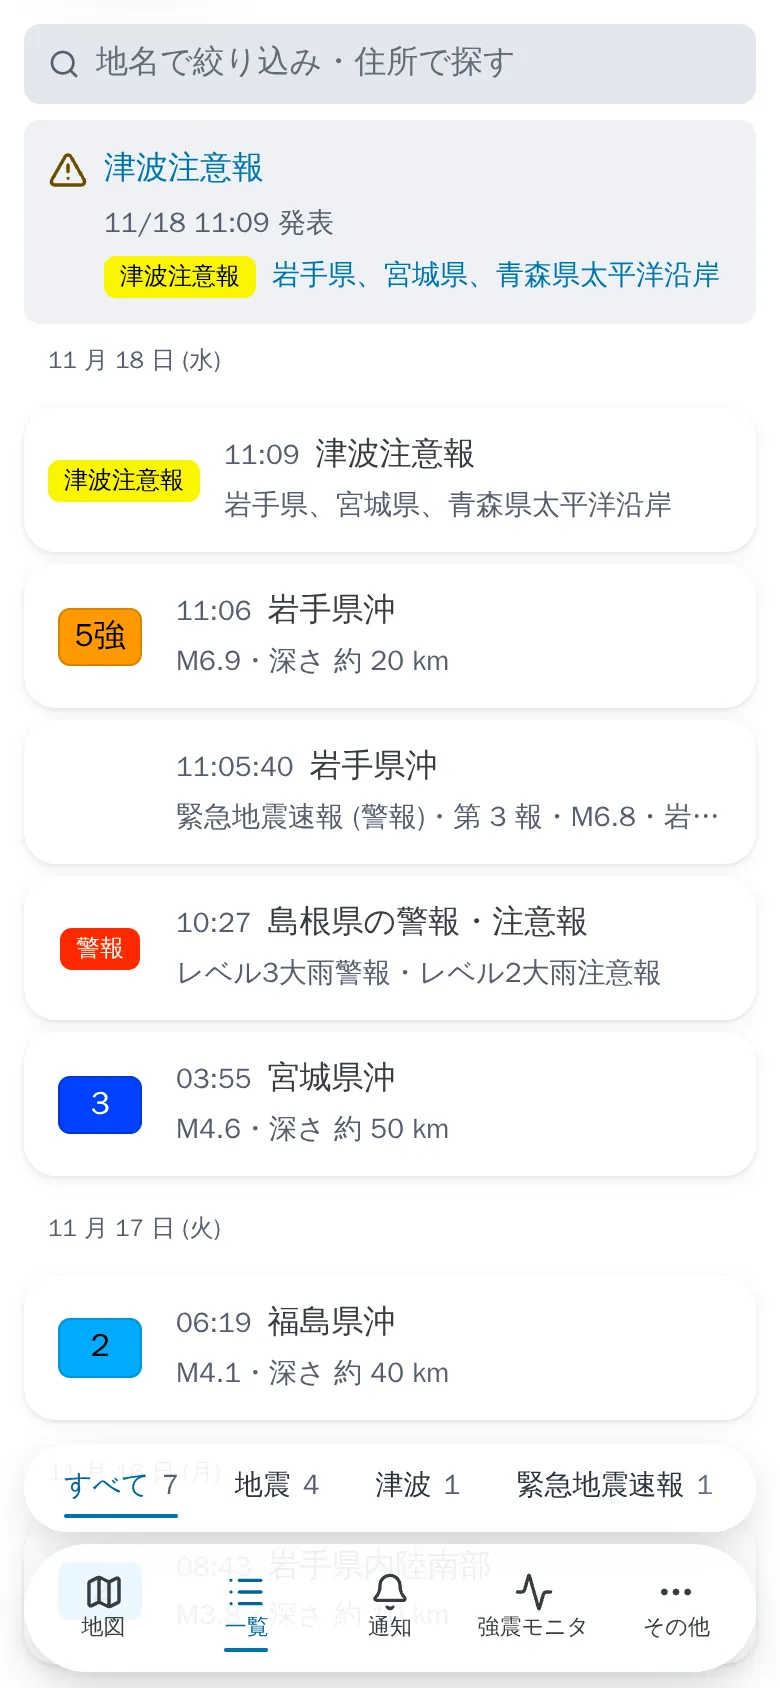
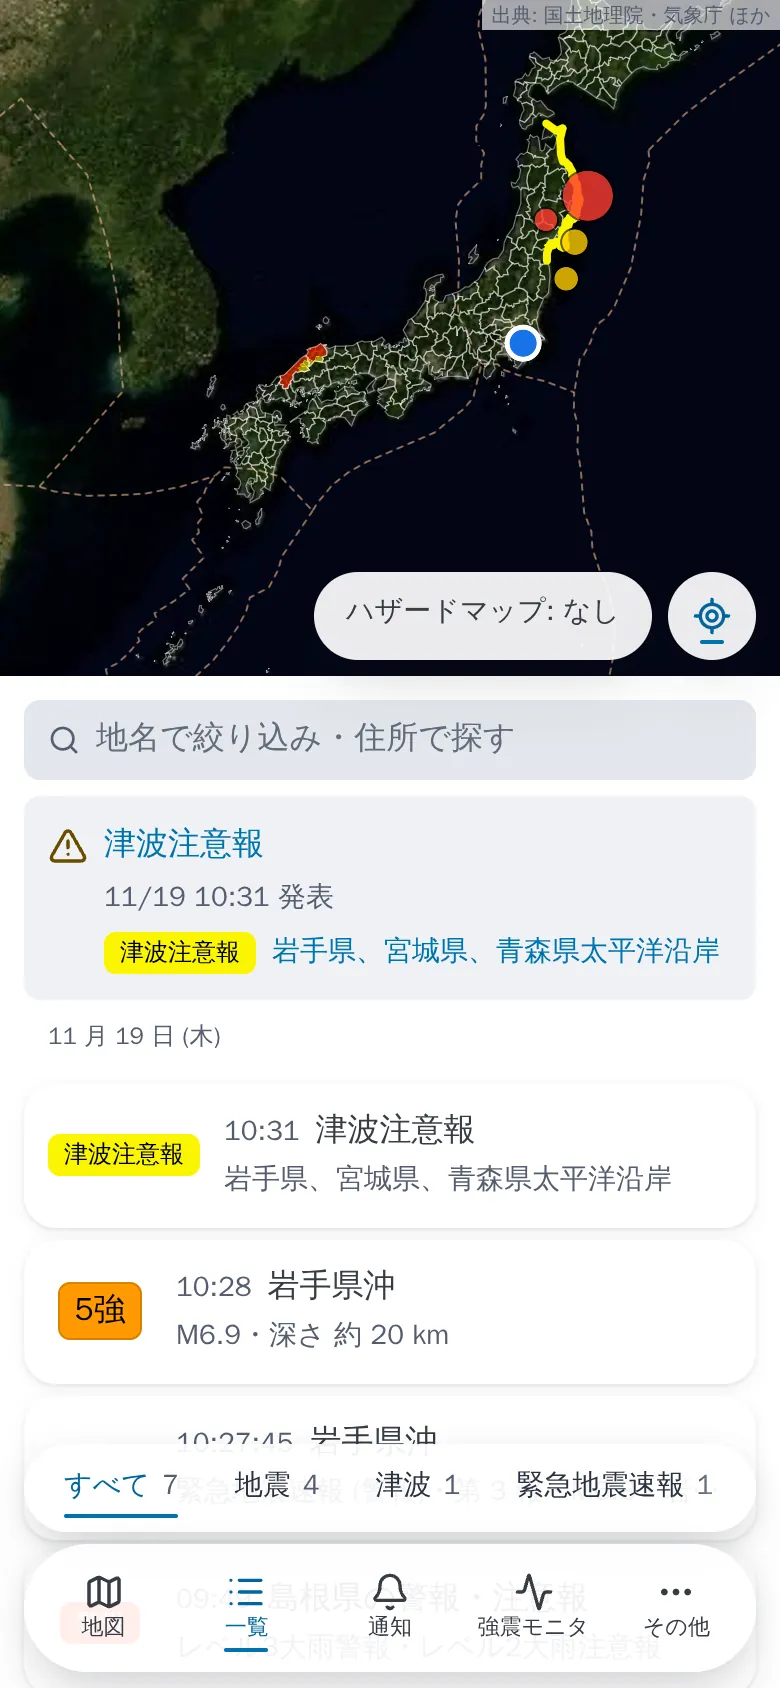
docs: README の画面 5 枚を、いまの画面で撮り直す (v0.4.3 の前)
観測点ごとの震度の丸 (#317・#322)、地震を選んでいる間に警報・注意報の塗りを隠す一言 (#322)、
スマホの形で地図を上に残して一覧を窓ごと巻く形 (#321)、通知の窓のいまの文言を写す。
README の詳しい内容とスマホの一覧の説明も、いまの画面に合わせる。

Claude-Session: https://claude.ai/code/session_01T8TqVdo6LUrWKdVQgbScVU

diff --git a/README.md b/README.md
@@ -16,12 +16,12 @@ https://github.com/user-attachments/assets/10623080-5ec4-4150-8a29-319a88e5f30b
 <table>
   <tr>
     <td align="center"><img src="docs/images/map.webp" alt="地図と一覧" width="380"><br><sub><b>地図と一覧</b> — 津波注意報の海岸と気象の警報・注意報を地図に、全部の種類を新しい順に 1 本の一覧に</sub></td>
-    <td align="center"><img src="docs/images/detail.webp" alt="詳しい内容" width="380"><br><sub><b>詳しい内容</b> — 行を押すと、震源・M・各地域の震度。地図も各地の震度で塗る</sub></td>
+    <td align="center"><img src="docs/images/detail.webp" alt="詳しい内容" width="380"><br><sub><b>詳しい内容</b> — 行を押すと、震源・M・各地域の震度。地図も各地の震度で塗り、観測点ごとの震度を丸で置く</sub></td>
     <td align="center"><img src="docs/images/notify.webp" alt="通知の窓の先頭。住んでいる地域 (千葉県千葉市) と、緊急地震速報・地震・津波・火山・気象の 3 択と、それぞれ何を知らせるかの 1 文" width="380"><br><sub><b>通知</b> — 種類ごとに全国・住んでいる地域と現在地・知らせないを選ぶ。音と読み上げ・Web Push・Webhook も</sub></td>
   </tr>
   <tr>
     <td align="center"><img src="docs/images/phone-map.webp" alt="スマホの地図" width="190"><br><sub><b>スマホ</b> — 地図が画面いっぱいに。下に選んだものの 1 行と 5 つのタブ</sub></td>
-    <td align="center"><img src="docs/images/phone-list.webp" alt="スマホの一覧" width="190"><br><sub><b>スマホの一覧</b> — 地図の上に重ねる面。種類のチップは下に</sub></td>
+    <td align="center"><img src="docs/images/phone-list.webp" alt="スマホの一覧" width="190"><br><sub><b>スマホの一覧</b> — 地図を上に残し、その下で一覧を巻く。種類のチップは下に</sub></td>
     <td></td>
   </tr>
 </table>
